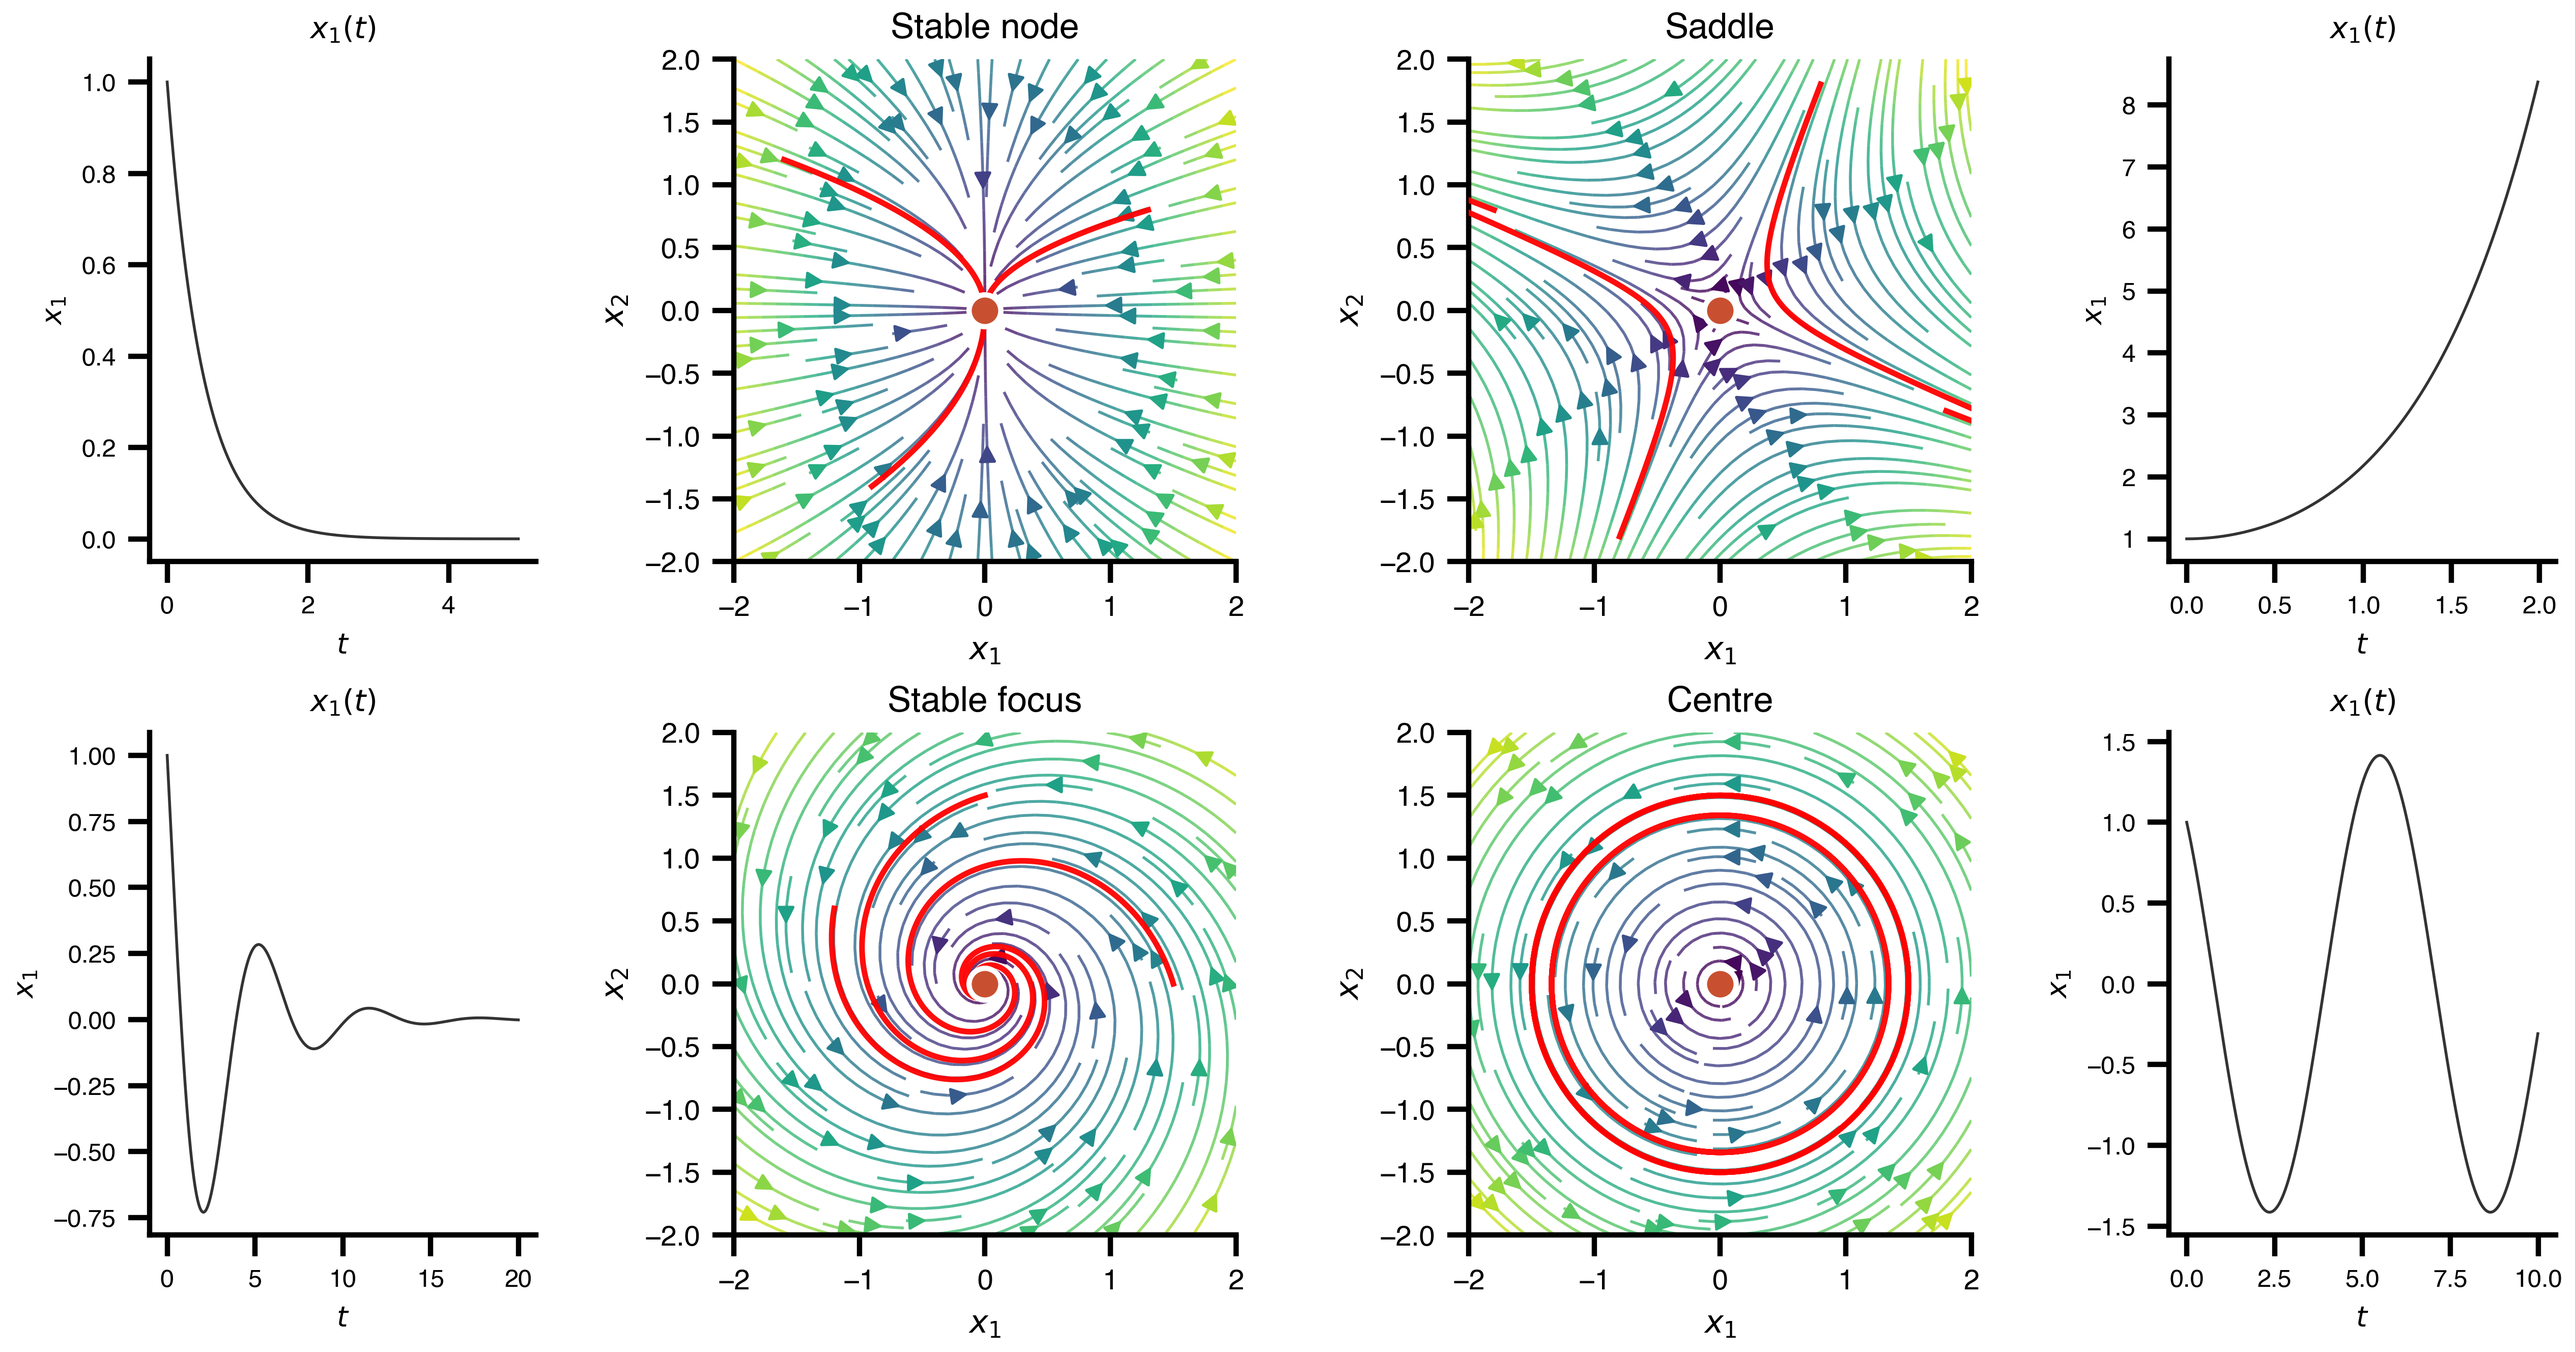
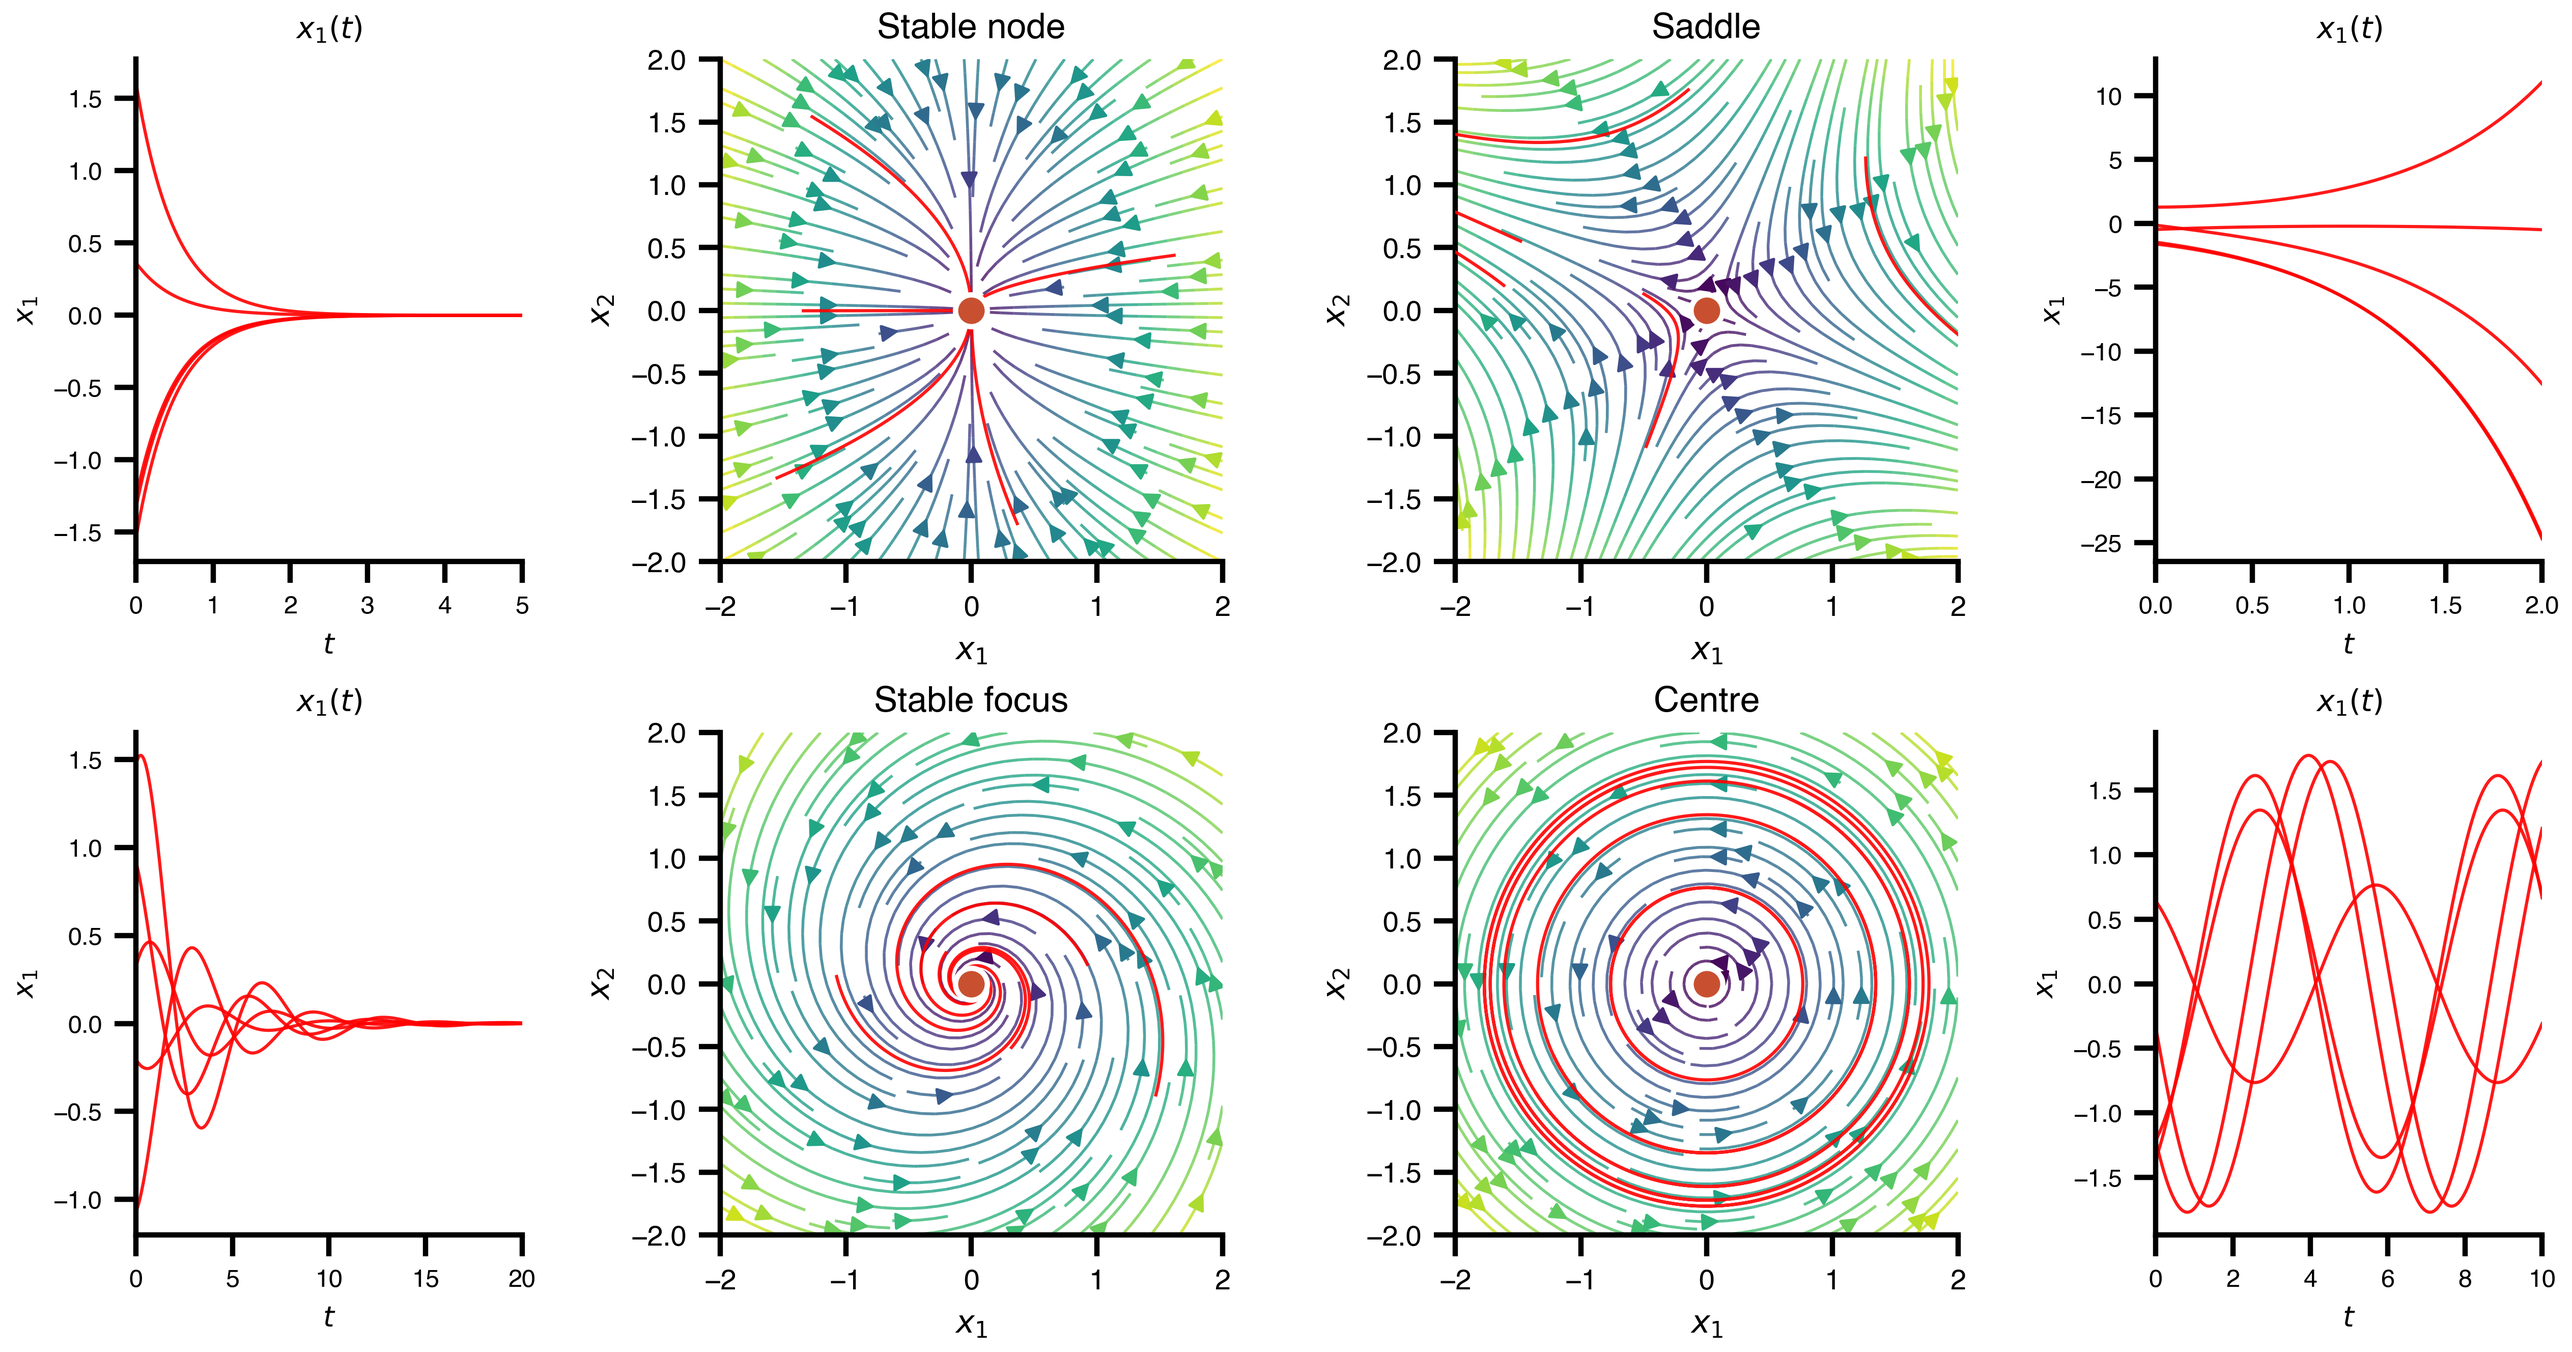
Refactor bifurcation scripts to utilize simulation functions and enhance phase portrait visualizations

diff --git a/_index-background.html b/_index-background.html
@@ -1,1 +1,1 @@
-<iframe src="brain-network-background.html" title="Animated brain network visualization" aria-hidden="true" tabindex="-1" style="position:fixed;inset:0;width:100%;height:100%;border:0;z-index:0;pointer-events:none;opacity:0.85;"></iframe>
+<iframe src="brain-network-background.html" title="Animated brain network visualization" aria-hidden="true" tabindex="-1" style="position:fixed;inset:0;width:100%;height:100%;border:0;z-index:0;pointer-events:none;opacity:1;"></iframe>

diff --git a/code/fig-bifurcation-phase-portraits-animation.py b/code/fig-bifurcation-phase-portraits-animation.py
@@ -1,0 +1,123 @@
+"""Animated 2D phase portraits with sequentially added trajectories."""
+from __future__ import annotations
+
+import os
+
+import matplotlib.pyplot as plt
+from matplotlib.animation import FuncAnimation, PillowWriter
+
+from _bif_common import (
+    IMG,
+    NODE_2D,
+    SADDLE_2D,
+    FOCUS_2D,
+    CENTRE_2D,
+    _simulate_trials_via_experiment,
+)
+from tvbo import Dynamics
+
+ACCENT = "#c85030"
+TRAJ_C = "red"
+OUT = os.path.join(IMG, os.path.basename(__file__).replace(".py", ".gif"))
+
+CASES = [
+    ("Stable node", NODE_2D, "node", 5.0, 11),
+    ("Saddle", SADDLE_2D, "saddle", 2.0, 22),
+    ("Stable focus", FOCUS_2D, "focus", 20.0, 33),
+    ("Centre", CENTRE_2D, "centre", 10.0, 44),
+]
+
+PP_POS = {"node": (0, 1), "saddle": (0, 2), "focus": (1, 1), "centre": (1, 2)}
+TS_POS = {"node": (0, 0), "saddle": (0, 3), "focus": (1, 0), "centre": (1, 3)}
+
+fig = plt.figure(figsize=(12.2, 6.0))
+gs = fig.add_gridspec(
+    2,
+    4,
+    width_ratios=[1.35, 2.0, 2.0, 1.35],
+    height_ratios=[1.0, 1.0],
+    hspace=0.34,
+    wspace=0.34,
+)
+
+artists = []
+data_by_key = {}
+
+for title, yml, key, dur, seed in CASES:
+    dyn = Dynamics.from_string(yml)
+    runs = _simulate_trials_via_experiment(dyn, duration=dur, dt=0.01, n_trials=5, seed=seed)
+    data_by_key[key] = runs
+
+    pp_ax = fig.add_subplot(gs[PP_POS[key]])
+    dyn.plot("x1", "x2", kind="vectorfield", ax=pp_ax, grid_n=20, stream=True)
+    pp_ax.plot(0, 0, "o", color=ACCENT, ms=9, mec="white", mew=1.5, zorder=15, clip_on=False)
+    pp_ax.set_title(title, fontsize=10)
+
+    ts_ax = fig.add_subplot(gs[TS_POS[key]])
+    ts_ax.set_title(r"$x_1(t)$", fontsize=8.5)
+    ts_ax.set_xlabel("$t$", fontsize=8)
+    ts_ax.set_ylabel("$x_1$", fontsize=8)
+    ts_ax.tick_params(labelsize=7)
+    ts_ax.set_xlim(0, dur)
+
+    yvals = [run["series"]["x1"] for run in runs]
+    ymin = min(float(y.min()) for y in yvals)
+    ymax = max(float(y.max()) for y in yvals)
+    pad = 0.08 * max(ymax - ymin, 1e-6)
+    ts_ax.set_ylim(ymin - pad, ymax + pad)
+
+    phase_lines = []
+    time_lines = []
+    for _ in runs:
+        phase_line, = pp_ax.plot([], [], color=TRAJ_C, lw=0.9, alpha=0.9, zorder=8)
+        time_line, = ts_ax.plot([], [], color=TRAJ_C, lw=0.9, alpha=0.9)
+        phase_lines.append(phase_line)
+        time_lines.append(time_line)
+    artists.append((phase_lines, time_lines))
+
+samples_per_trial = 40
+frame_count = len(CASES[0][0:0])
+sample_idx = None
+for runs in data_by_key.values():
+    sample_idx = None
+    break
+sample_idx = None
+sample_idx = None
+sample_idx = None
+sample_idx = None
+sample_idx = None
+sample_idx = None
+sample_idx = None
+sample_idx = None
+sample_idx = None
+sample_idx = None
+
+example_run = next(iter(data_by_key.values()))[0]
+sample_idx = [int(i) for i in plt.np.linspace(1, len(example_run["time"]) - 1, samples_per_trial)]
+total_frames = 5 * samples_per_trial
+
+
+def _update(frame):
+    active_trial = frame // samples_per_trial
+    active_step = sample_idx[frame % samples_per_trial]
+    changed = []
+    for (_, _, key, _, _), (phase_lines, time_lines) in zip(CASES, artists):
+        runs = data_by_key[key]
+        for idx, run in enumerate(runs):
+            if idx < active_trial:
+                stop = len(run["time"])
+            elif idx == active_trial:
+                stop = active_step
+            else:
+                stop = 0
+
+            phase_lines[idx].set_data(run["series"]["x1"][:stop], run["series"]["x2"][:stop])
+            time_lines[idx].set_data(run["time"][:stop], run["series"]["x1"][:stop])
+            changed.extend((phase_lines[idx], time_lines[idx]))
+    return changed
+
+
+anim = FuncAnimation(fig, _update, frames=total_frames, interval=80, blit=True)
+anim.save(OUT, writer=PillowWriter(fps=15))
+print("wrote", OUT)
+plt.close(fig)

diff --git a/code/fig-bifurcation-phase-portraits.py b/code/fig-bifurcation-phase-portraits.py
@@ -7,9 +7,16 @@ disabled because these linear examples have a known equilibrium at the origin.
 from __future__ import annotations
 
 import os
-import numpy as np
 import matplotlib.pyplot as plt
-from _bif_common import IMG, NODE_2D, SADDLE_2D, FOCUS_2D, CENTRE_2D, save
+from _bif_common import (
+    IMG,
+    NODE_2D,
+    SADDLE_2D,
+    FOCUS_2D,
+    CENTRE_2D,
+    save,
+    _simulate_trials_via_experiment,
+)
 from tvbo import Dynamics
 
 ACCENT = "#c85030"
@@ -17,10 +24,10 @@ OUT = os.path.join(IMG, os.path.basename(__file__).replace(".py", ".png"))
 
 # (title, yaml, key, timeseries_duration)
 CASES = [
-    ("Stable node",  NODE_2D,   "node",   5.0),
-    ("Saddle",       SADDLE_2D, "saddle", 2.0),
-    ("Stable focus", FOCUS_2D,  "focus",  20.0),
-    ("Centre",       CENTRE_2D, "centre", 10.0),
+    ("Stable node", NODE_2D, "node", 5.0, 11),
+    ("Saddle", SADDLE_2D, "saddle", 2.0, 22),
+    ("Stable focus", FOCUS_2D, "focus", 20.0, 33),
+    ("Centre", CENTRE_2D, "centre", 10.0, 44),
 ]
 
 # 2×4 layout: middle columns are phase planes, outer columns are time series.
@@ -33,12 +40,8 @@ CASES = [
 PP_POS = {"node": (0, 1), "saddle": (0, 2), "focus": (1, 1), "centre": (1, 2)}
 TS_POS = {"node": (0, 0), "saddle": (0, 3), "focus": (1, 0), "centre": (1, 3)}
 
-TRAJ_IC = {
-    "node": [(-1.6, 1.2), (1.3, 0.8), (-0.9, -1.4)],
-    "saddle": [(-1.8, 0.8), (1.8, -0.8), (-0.8, -1.8), (0.8, 1.8)],
-    "focus": [(1.5, 0.0), (0.0, 1.5), (-1.2, 0.6)],
-    "centre": [(1.5, 0.0), (0.0, 1.5), (-1.2, 0.6)],
-}
+TRAJ_C = "red"
+N_TRAJ = 5
 
 fig = plt.figure(figsize=(12.2, 6.0))
 gs = fig.add_gridspec(
@@ -49,12 +52,9 @@ gs = fig.add_gridspec(
 )
 
 
-for title, yml, key, dur in CASES:
+for title, yml, key, dur, seed in CASES:
     dyn = Dynamics.from_string(yml)
-    state_names = list(dyn.state_variables)
-    base_ic = np.asarray(dyn.get_initial_values(), dtype=float).reshape(-1)
-    i1 = state_names.index("x1")
-    i2 = state_names.index("x2")
+    runs = _simulate_trials_via_experiment(dyn, duration=dur, dt=0.01, n_trials=N_TRAJ, seed=seed)
 
     # ── Phase plane ──────────────────────────────────────────────────────────
     pp_ax = fig.add_subplot(gs[PP_POS[key]])
@@ -66,14 +66,8 @@ for title, yml, key, dur in CASES:
         stream=True,
     )
 
-    # Manual trajectories only. Avoid auto nullclines / fixed-point markers.
-    for x1_0, x2_0 in TRAJ_IC[key]:
-        u0 = base_ic.copy()
-        u0[i1] = x1_0
-        u0[i2] = x2_0
-        ts = dyn.run(duration=15, dt=0.01, u_0=u0, save=False)
-        traj = ts.data[:, :, 0, 0]
-        pp_ax.plot(traj[:, i1], traj[:, i2], color="red", lw=1.6, alpha=0.95, zorder=8)
+    for run in runs:
+        pp_ax.plot(run["series"]["x1"], run["series"]["x2"], color=TRAJ_C, lw=0.9, alpha=0.9, zorder=8)
 
     # Known equilibrium at the origin only.
     pp_ax.plot(0, 0, "o", color=ACCENT, ms=9, mec="white", mew=1.5, zorder=15, clip_on=False)
@@ -81,12 +75,12 @@ for title, yml, key, dur in CASES:
 
     # ── Timeseries ───────────────────────────────────────────────────────────
     ts_ax = fig.add_subplot(gs[TS_POS[key]])
-    dyn.plot("x1", kind="timeseries", duration=dur, dt=0.01, ax=ts_ax)
+    for run in runs:
+        ts_ax.plot(run["time"], run["series"]["x1"], color=TRAJ_C, lw=0.9, alpha=0.9)
     ts_ax.set_title(r"$x_1(t)$", fontsize=8.5)
     ts_ax.set_xlabel("$t$", fontsize=8)
     ts_ax.set_ylabel("$x_1$", fontsize=8)
     ts_ax.tick_params(labelsize=7)
-    if ts_ax.get_legend() is not None:
-        ts_ax.get_legend().remove()
+    ts_ax.set_xlim(0, dur)
 
 save(fig, OUT)

diff --git a/code/_bif_common.py b/code/_bif_common.py
@@ -286,6 +286,12 @@ def _simulate_via_experiment(dyn, duration, dt=0.01, initial_values=None):
     for name, value in initial_values.items():
       model.state_variables[name].initial_value = float(value)
 
+  # These workshop examples are didactic linear systems. Keep domain bounds
+  # for plotting extents, but do not let the simulation backend treat them as
+  # hard state bounds, otherwise unstable saddles get artificially clipped.
+  for sv in model.state_variables.values():
+    sv.domain = None
+
   init_map = {
     name: float(sv.initial_value) if sv.initial_value is not None else 0.0
     for name, sv in model.state_variables.items()
@@ -294,7 +300,7 @@ def _simulate_via_experiment(dyn, duration, dt=0.01, initial_values=None):
   exp = SimulationExperiment(dynamics=model)
   exp.integration.duration = duration
   exp.integration.step_size = dt
-  res = exp.run().integration
+  res = exp.run("tvboptim").integration
 
   time = np.asarray(res.time, dtype=float)
   series = {
@@ -308,6 +314,37 @@ def _simulate_via_experiment(dyn, duration, dt=0.01, initial_values=None):
       series[name] = np.r_[value, series[name]]
 
   return time, series
+
+
+def _sample_initial_values(dyn, n_trials=5, seed=0, shrink=0.9):
+  """Sample initial conditions from state-variable domains."""
+  rng = np.random.default_rng(seed)
+  trials = []
+  for _ in range(n_trials):
+    trial = {}
+    for name, sv in dyn.state_variables.items():
+      if getattr(sv, "domain", None) and sv.domain.lo is not None and sv.domain.hi is not None:
+        lo = float(sv.domain.lo)
+        hi = float(sv.domain.hi)
+      else:
+        value = float(sv.initial_value) if sv.initial_value is not None else 0.0
+        lo, hi = value - 1.0, value + 1.0
+      mid = 0.5 * (lo + hi)
+      half = 0.5 * (hi - lo) * shrink
+      trial[name] = rng.uniform(mid - half, mid + half) if half > 0 else mid
+    trials.append(trial)
+  return trials
+
+
+def _simulate_trials_via_experiment(dyn, duration, dt=0.01, n_trials=5, seed=0, initial_values_list=None):
+  """Run multiple experiment-backed trials from sampled initial conditions."""
+  if initial_values_list is None:
+    initial_values_list = _sample_initial_values(dyn, n_trials=n_trials, seed=seed)
+  runs = []
+  for initial_values in initial_values_list:
+    time, series = _simulate_via_experiment(dyn, duration=duration, dt=dt, initial_values=initial_values)
+    runs.append({"time": time, "series": series, "initial_values": initial_values})
+  return runs
 
 
 def _bif(dyn_yaml, cont_yaml):

diff --git a/code/fig-bifurcation-overview.py b/code/fig-bifurcation-overview.py
@@ -3,7 +3,7 @@ from __future__ import annotations
 
 import os
 import matplotlib.pyplot as plt
-from _bif_common import IMG, HOPF, HOPF_CONT, _bif, save
+from _bif_common import IMG, HOPF, HOPF_CONT, _bif, save, _simulate_via_experiment, _simulate_trials_via_experiment
 from tvbo import Dynamics
 
 OUT = os.path.join(IMG, os.path.basename(__file__).replace(".py", ".png"))
@@ -12,21 +12,28 @@ fig, ax = plt.subplots(1, 3, figsize=(11, 3.0))
 
 dyn_stable = Dynamics.from_string(HOPF)
 dyn_stable.parameters["a"].value = -0.5
-dyn_stable.plot("x1", kind="timeseries", duration=10, dt=0.01, ax=ax[0])
+t, series = _simulate_via_experiment(dyn_stable, duration=10, dt=0.01)
+ax[0].plot(t, series["x1"], lw=1.4, color="C0")
 dyn_osc = Dynamics.from_string(HOPF)
 dyn_osc.parameters["a"].value = +0.5
-dyn_osc.plot("x1", kind="timeseries", duration=10, dt=0.01, ax=ax[0])
+t, series = _simulate_via_experiment(dyn_osc, duration=10, dt=0.01)
+ax[0].plot(t, series["x1"], lw=1.4, color="C1")
 ax[0].set_title("Time series ($a=\\pm 0.5$)")
+ax[0].set_xlabel("$t$")
+ax[0].set_ylabel("$x_1$")
 
-Dynamics.from_string(HOPF).plot(
+dyn_phase = Dynamics.from_string(HOPF)
+dyn_phase.plot(
     "x1",
     "x2",
-    kind="phaseplane",
+    kind="vectorfield",
     ax=ax[1],
     grid_n=22,
-    n_trajectories=3,
-    duration=15,
+    stream=True,
 )
+for run in _simulate_trials_via_experiment(dyn_phase, duration=15, dt=0.01, n_trials=3, seed=7):
+    ax[1].plot(run["series"]["x1"], run["series"]["x2"], color="red", lw=1.0, alpha=0.9)
+ax[1].plot(0, 0, "o", color="#c85030", ms=7, mec="white", mew=1.0, zorder=10)
 ax[1].set_title("Phase plane ($a=0.5$)")
 
 cont = _bif(HOPF, HOPF_CONT)
